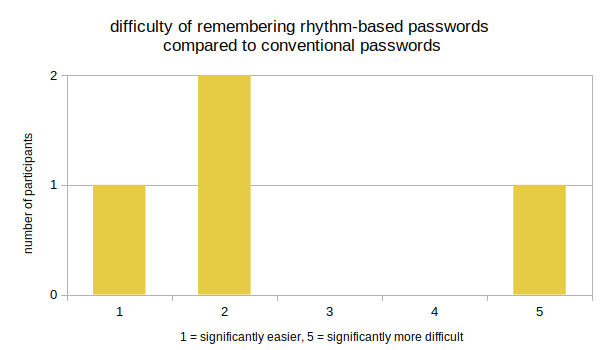
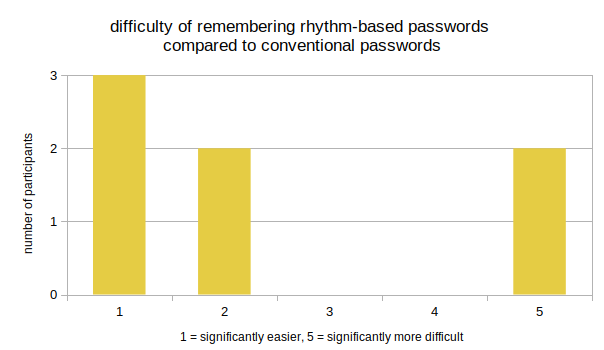
updated study results

diff --git a/results.html b/results.html
@@ -63,12 +63,12 @@
             </ul>
 
             <h3>Empirical Evaluation</h3>
-            <p>To evaluate the retentiveness of rhythm-based passwords, a small-scale field-study was conducted. Four Participants where asked to set a rhythm-password. Then they had five minutes time to practice entering the password. After two and four hours respectively, they were asked to enter the password again. Furthermore, the participants were asked to compare the retentiveness and difficulty of inputting rhythm-based passwords to conventional passwords.</p>
-            <p>The study showed that most participants though the rhythm-based password was easier to remember than conventional passwords. All participants could successfully enter their rhythm-based passwords two and four hours after setup, even though, one participant though the rhythm-based password was significantly more difficult to remember.</p>
+            <p>To evaluate the retentiveness of rhythm-based passwords, a small-scale field-study was conducted. Seven Participants aged between 20 and 60 where asked to set a rhythm-password. Then they had five minutes time to practice entering the password. After two and four hours respectively, they were asked to enter the password again. Furthermore, the participants were asked to compare the retentiveness and difficulty of inputting rhythm-based passwords to conventional passwords.</p>
+            <p>The study showed that the majority of participants though the rhythm-based password was easier to remember than conventional passwords. 85.7% of participants could successfully enter their rhythm-based passwords two and four hours after setup. Only one participant remembered it partially after two hours and could not login after four hours. So, the retentiveness seems to be quite good, even though, two participants though the rhythm-based password was significantly more difficult to remember. In particular, remembering the speed of the rhythm seemed to cause the difficulties.</p>
             <span class="inner fit"><img src="images/result_difficulty.png" alt="diagram showing the results on the difficulty of remembering rhythm-based passwords" width="100%"/></span>
-            <p>When it comes to the difficulty of entering rhythm-based passwords the participants are split in two groups. One half considered rhythm-bases passwords to be significantly easier to use while the other thought them to be more difficult.</p>
+            <p>When it comes to the difficulty of entering rhythm-based passwords the participants are split in two groups. About one half considered rhythm-bases passwords to be (significantly) easier to use while the other thought them to be more difficult.</p>
             <span class="inner fit"><img src="images/result_input.png" alt="diagram showing the results on the difficulty of entering rhythm-based passwords" width="100%"/></span>
-            <p>Thus, rhythm-based passwords seem to be good to remember but their perceived difficulty regarding usability strongly depends on the users’ personal preferences.</p>
+            <p>Thus, rhythm-based passwords seem to be good to remember and one participant also commented that the ability to enter the rhythm without looking the screen was a great asset. Nonetheless, the perceived difficulty regarding usability strongly depends on the users’ personal preferences and remembering the speed of the rhythm can be a challenge.</p>
             <p>Due to the very small number of participants, outliers can have a larger effect on the results. So, the results only give an insight into a small group of potential users and might not be representative for the general public.</p>
 
             <h3>Limitations</h3>
